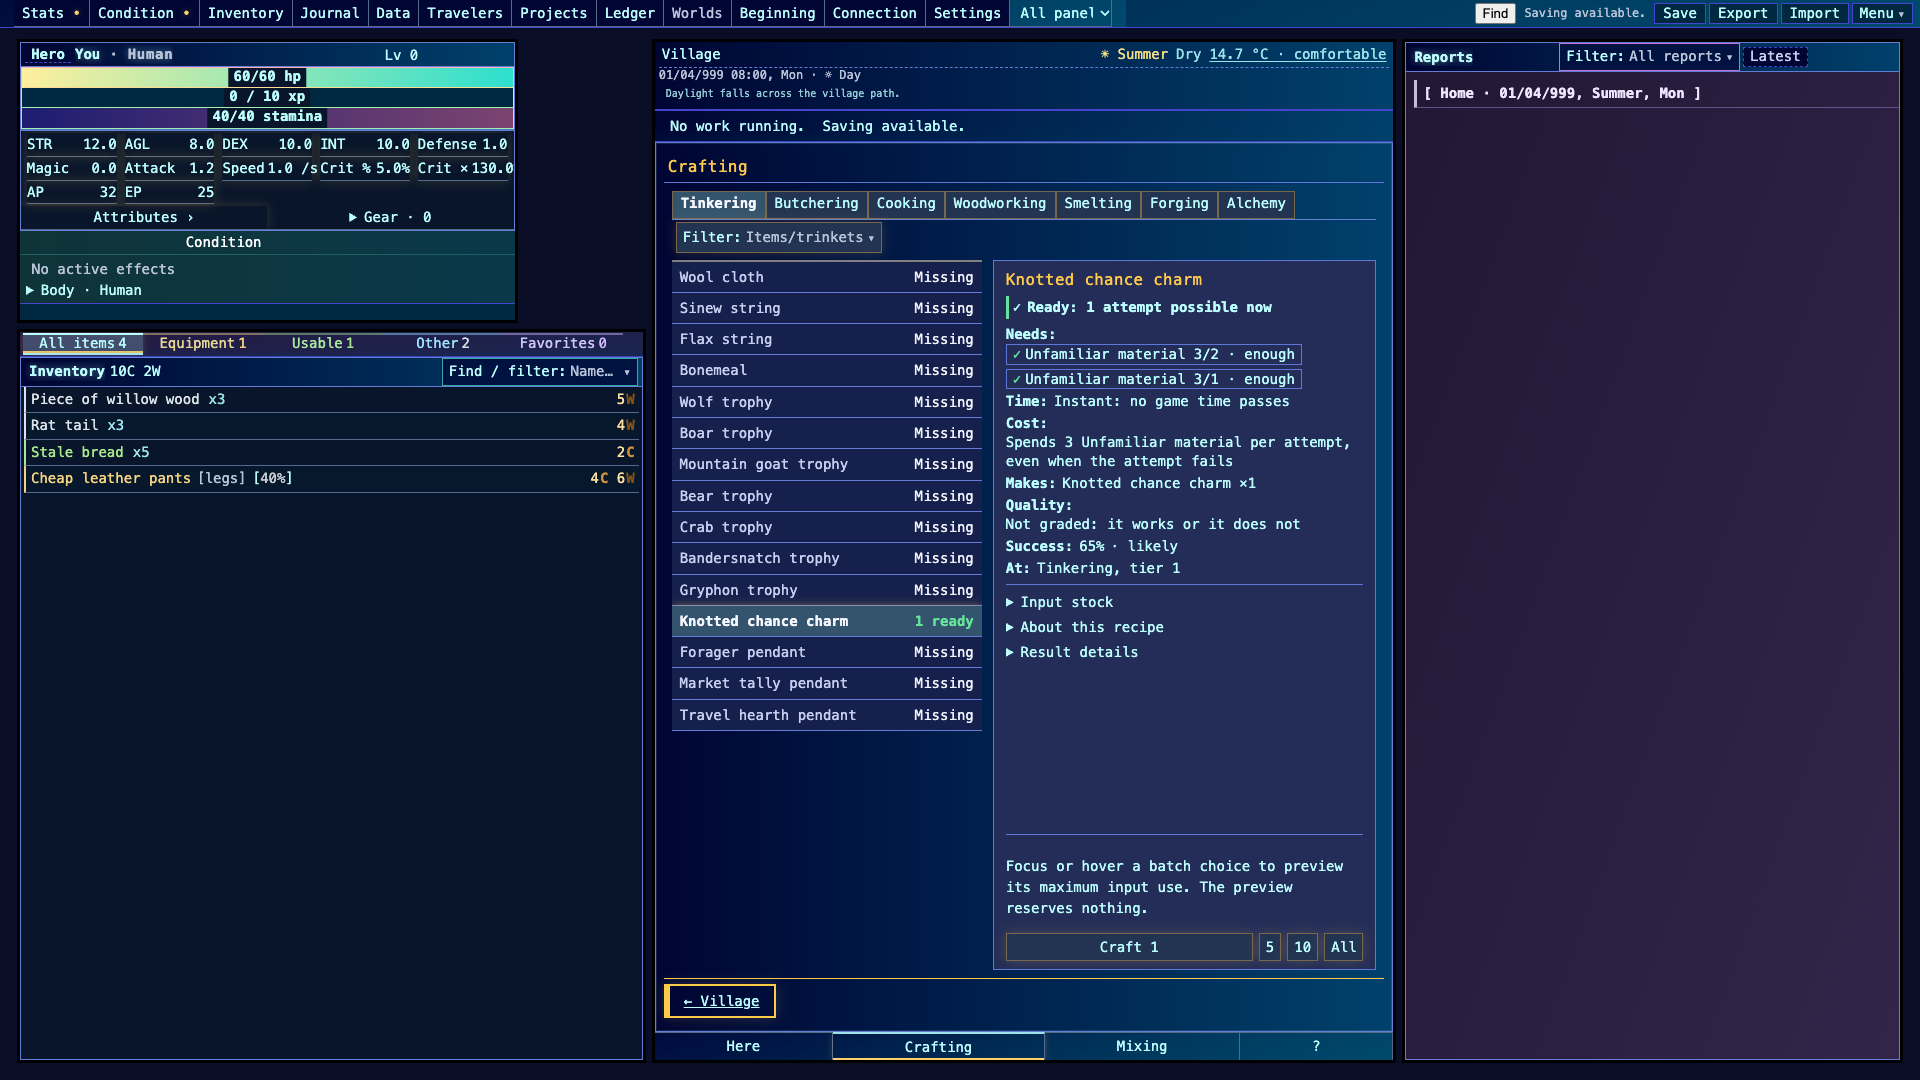
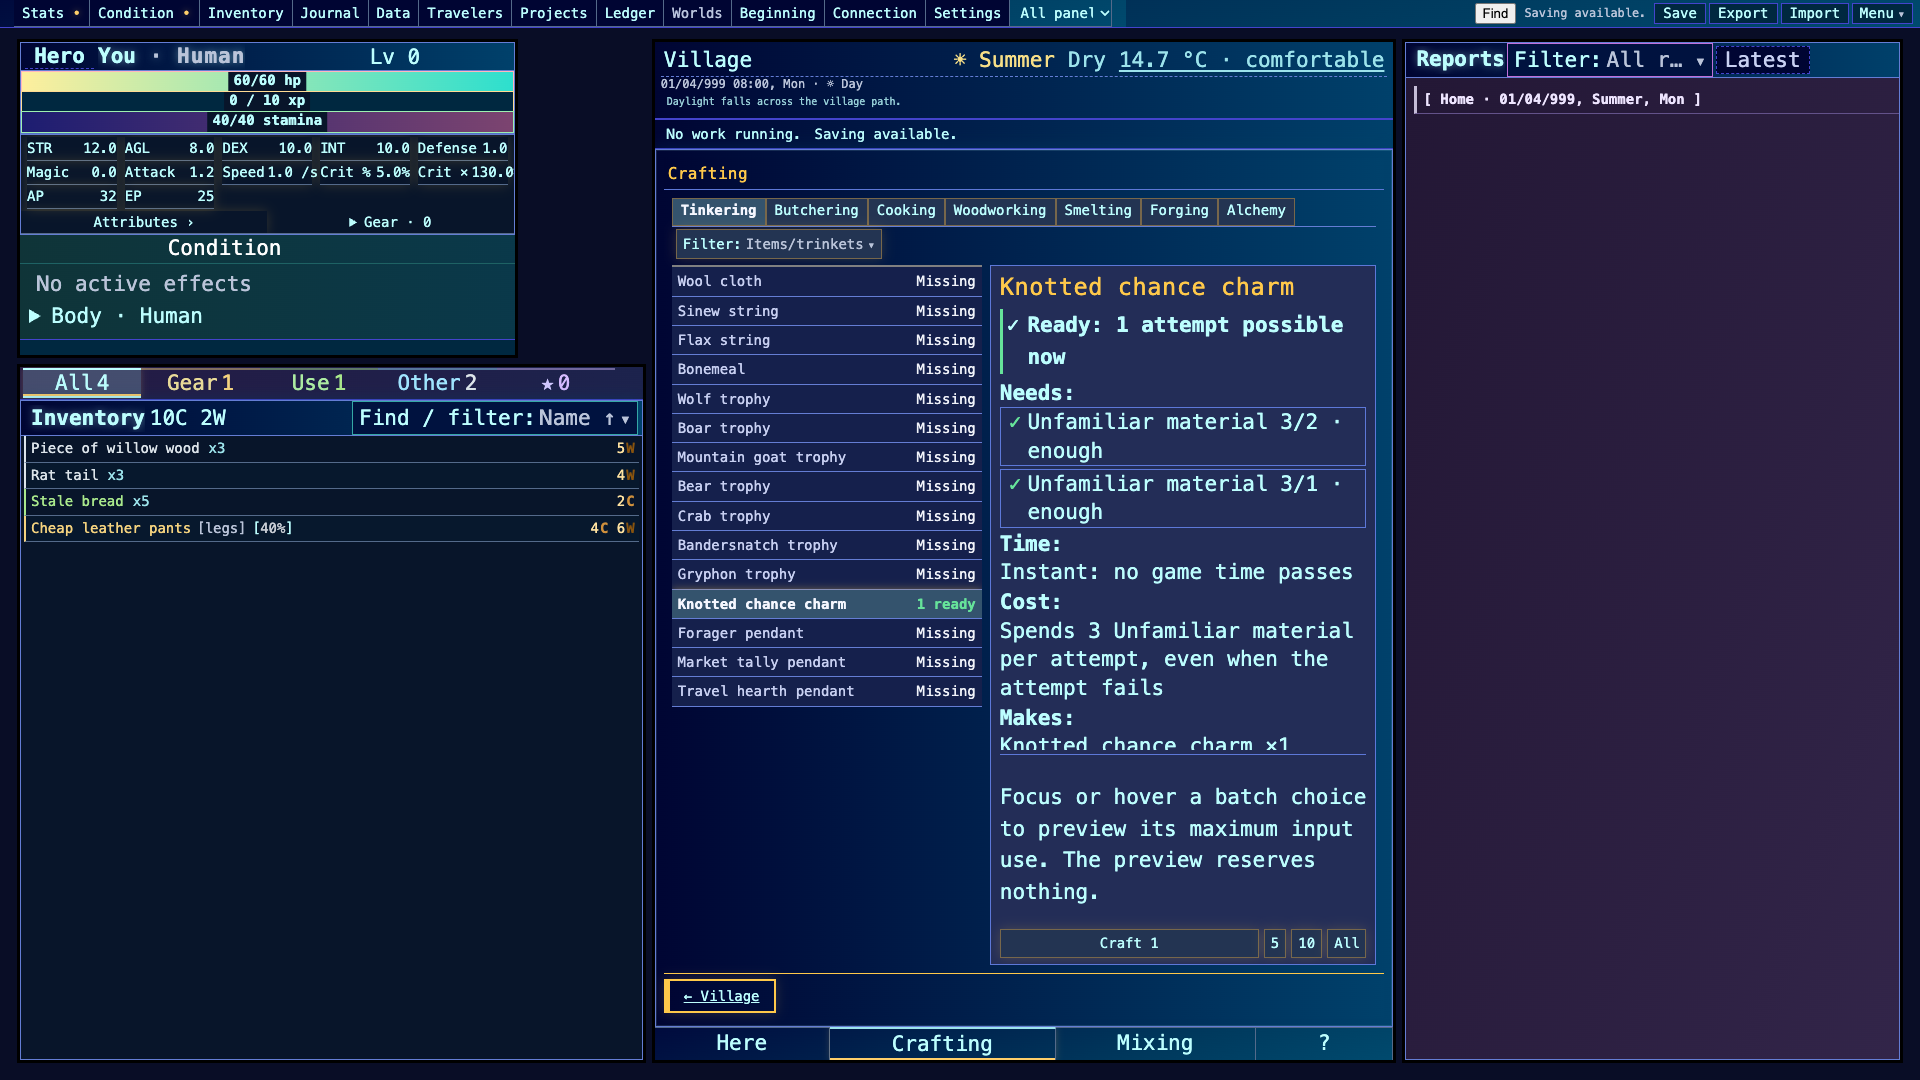
Crafting glance: heat-blocked chip, real 21 px evidence, one real Craft step, doc notes
(cherry picked from commit 7e182b44eea6d033322e8710122701cb1c640093)

Changed region(s): [[0.0, 0.0306, 1.0, 0.7028], [0.5, 0.7333, 0.7188, 0.9167], [0.3438, 0.8861, 0.7188, 0.9778]]

diff --git a/src/ui/craft_glance.js b/src/ui/craft_glance.js
@@ -20,8 +20,8 @@ export function needChips(requirements = []) {
     return requirements.map(req => {
         const have = req.stockKnown ? req.usable : req.have;
         const short = Math.max(0, req.need - have);
-        const state = short || req.held_back ? 'blocked' : 'ok';
-        const note = short ? `short ${short}` : req.held_back ? 'reserved' : 'enough';
+        const state = short || req.held_back || req.heat_reason ? 'blocked' : 'ok';
+        const note = short ? `short ${short}` : req.held_back ? 'reserved' : req.heat_reason ? 'wrong heat' : 'enough';
         return {state, text: `${req.label} ${have}/${req.need}`, note};
     });
 }

diff --git a/tests/crafting_detail.test.js b/tests/crafting_detail.test.js
@@ -63,3 +63,8 @@ test('crafting flow fixtures validate and keep every fact in the text form', () 
         assert.match(text, /missing 1 Binding strip/);
     }
 });
+
+test('an input blocked only by heat reads blocked, not enough', () => {
+    const [chip] = needChips([{label: 'Ore', need: 1, have: 3, heat_reason: 'needs a hotter fire'}]);
+    assert.deepEqual(chip, {state: 'blocked', text: 'Ore 3/1', note: 'wrong heat'});
+});

diff --git a/docs/representations/CRAFTING.md b/docs/representations/CRAFTING.md
@@ -26,7 +26,7 @@ The first thing seen after selecting a recipe was a stack of labelled rows with 
 
 Code: `src/ui/craft_glance.js` (pure `craftGlance(model)`, `needChips`, `chanceWord`, `glanceText`; the text form is the same data), one renderer function in `crafting_detail.js`, two optional model fields in `display.js` (`time`, `spendsOnFailure`), CSS at the end of `styles/crafting_detail.css`. A surface that passes neither field (the bench) reads "Not stated" for Time and omits the failure clause: honest, not wrong. No persistence change, no engine change.
 
-Evidence: `docs/representations/evidence/crafting/glance-{blocked,ready}-{14px,21px}.png` (headless Chrome, 1920×1080, fresh seeded origin; the 21 px shots apply a root font-size override, so they approximate the Settings text size). Script: `scripts/craft_glance_browser.cjs` asserts the glance text, that the Craft button sits inside the viewport, and that a ready recipe has no blocked reason.
+Evidence: `docs/representations/evidence/crafting/glance-{blocked,ready}-{14px,21px}.png` (headless Chrome, 1920×1080, fresh seeded origin; the 21 px shots set the context module's font size to 21 px and the script asserts the detail's computed size). Script: `scripts/craft_glance_browser.cjs` asserts the glance text, that the Craft button sits inside the viewport, that a ready recipe has no blocked reason, and runs one real Craft 1 (a failed attempt in the captured run: inputs spent, receipt shown, glance re-rendered, game clock unchanged, `glance-after-craft-14px.png`). At 21 px the Craft controls stay in view but the Success and At rows scroll below the first screen; the glance grid is one column there.
 
 ## CF2: forms per part (item 18)
 
@@ -69,6 +69,8 @@ Checked: the engine owner `docs/CRAFTING_ENGINE.md` rounds 2-10 (world rulebook 
 
 Five-second read before: the detail opened on "Input stock · owned / unblocked / blocked" and a 4% success with a long policy paragraph; the blocked reason sat below the fold of the content. Terms needing knowing: unblocked versus blocked, "attempts versus outputs", "material-stop", "Unfamiliar material". Fixed cheaply: reason now at the top once; time, cost and failure spending stated; stock breakdown only when something is short; policy prose behind "About this recipe". Not fixed: "Unfamiliar material" gives no hint what to try (needs the knowledge ladder, CF3); "Missing" in the list does not say what is missing (ACCOUNT FOR NOW below).
 
+Note on the engine claim in CF1: "instant, no game time" is exercised by the evidence script (clock unchanged across a craft); "failure still spends inputs" was seen in the same run.
+
 ### 3. Space, split and density
 
 At 1920×1080 the workspace gives the center column about 700 px; the list (44%) and inspector are already side by side, and the inspector has unused height below the disclosures. Decision: keep list plus pinned inspector (merge, since both answer "what can I make"); use the spare height for a "Chain" disclosure holding the flow graph, not for more text. Density by frequency (UR42): status and Craft controls are glance-density (looked at every craft); needs and chance are one line each; stock, XP, policy and results are one click.
@@ -99,7 +101,7 @@ Reused: `itemRecipeStatus`, the model builder, `craftBatchProposal`, `figure.js`
 
 ### 10. Audit gaps
 
-Lead's run (LTU): the items detail has no knowledge ladder, so a fresh lead cannot tell what an unfamiliar material is for. Other seats: a thin life with no station sees a disabled nav button and a title attribute only; give the disabled route a visible reason. Empty and error states: no recipes selected shows one prompt (fine); a missing model field now reads "Not stated". Persistence: no change. Performance: the glance adds about 20 DOM nodes per render; the renderer rebuilds all children on each refresh, as before. Accessibility: the status is focusable only when blocked, focus restore list unchanged; 21 px checked at an approximate root-size override.
+Lead's run (LTU): the items detail has no knowledge ladder, so a fresh lead cannot tell what an unfamiliar material is for. Other seats: a thin life with no station sees a disabled nav button and a title attribute only; give the disabled route a visible reason. Empty and error states: no recipes selected shows one prompt (fine); a missing model field now reads "Not stated". Persistence: no change. Performance: the glance adds about 20 DOM nodes per render; the renderer rebuilds all children on each refresh, as before. Accessibility: the status is focusable only when blocked, focus restore list unchanged; 21 px checked with the real detail size (see CF1): controls stay visible, lower glance rows scroll.
 
 ### 11. Prior implementations and abstraction
 
